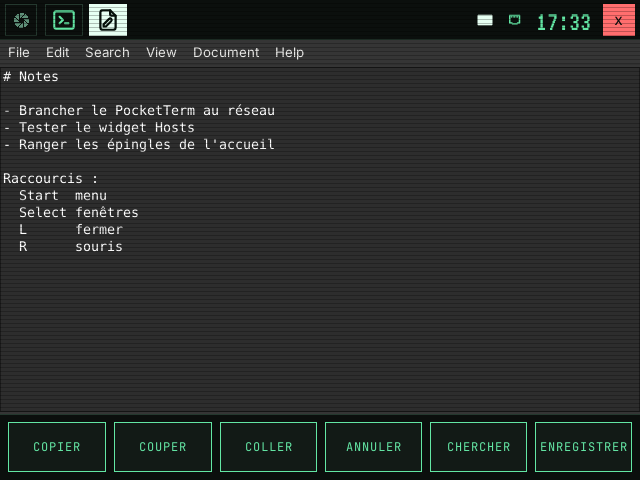
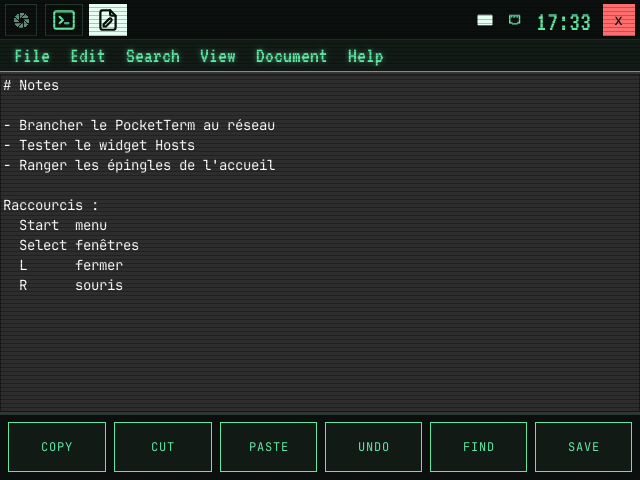
Éditeur : barre de menus en bande de 32 px, texte à 14 px, boutons en anglais
- gtk-3.0/gtk.css : la barre de menus de Mousepad en VT323 avec halo,
  bande surface et filet primary, comme le fil d'Ariane.
- install.sh : police du texte JetBrains Mono 14 px (gsettings), comme Files.
- pt35-actions et barre tmux en anglais, comme l'interface.

Claude-Session: https://claude.ai/code/session_01TamZHjxnFaqmn2ea4JHUm8

diff --git a/home/.config/gtk-3.0/gtk.css b/home/.config/gtk-3.0/gtk.css
@@ -1,0 +1,30 @@
+/* PocketTerm Phosphore (DESIGN.md) pour les apps GTK3. */
+
+/* Mousepad : barre de menus en bande de 32 px, comme le fil d'Ariane (fork u19).
+   Tailles en px : PT35-OS lance l'éditeur avec GDK_DPI_SCALE=0.75, qui ne
+   réduit que les tailles en pt. */
+window.mousepad menubar {
+  background: #121a16;
+  border-bottom: 1px solid #63e6a4;
+  padding: 0 4px;
+}
+window.mousepad menubar > menuitem {
+  min-height: 31px;
+  padding: 0 10px;
+  color: #63e6a4;
+}
+/* Sur le libellé seulement : le menu déroulant hériterait de la police. */
+window.mousepad menubar > menuitem > label {
+  font-family: "VT323";
+  font-size: 22px;
+  text-shadow: 0 0 3px rgba(99, 230, 164, 0.6);
+}
+/* Menu ouvert : la sélection de la charte, fond plein et texte sombre. */
+window.mousepad menubar > menuitem:hover {
+  background: #e6fff2;
+  color: #06110b;
+  box-shadow: none;
+}
+window.mousepad menubar > menuitem:hover > label {
+  text-shadow: none;
+}

diff --git a/docs/briques.md b/docs/briques.md
@@ -56,7 +56,7 @@ Une ligne par brique : ce qu'on prend, pourquoi, ou pourquoi on l'écarte.
 | [tmux](https://github.com/tmux/tmux) (ISC, Debian) pour la barre du bas du Terminal | retenu | barre de statut native, couleurs en config ; donne aussi la molette sur l'historique et la copie OSC 52 vers foot. Lancé par la tuile Terminal et Super+Entrée seulement : `foot ssh …` et les apps en `foot -a` restent sans |
 | [Zellij](https://zellij.dev/) | écarté | barre plus riche mais binaire hors Debian, plus lourd, raccourcis qui prennent beaucoup de touches : YAGNI |
 | barre de prompt ([Starship](https://starship.rs/)) | écarté | habille le prompt, pas le bas de l'écran ; à reconsidérer à part |
-| bandeau d'actions `pt35-actions` (Python, GTK3 + [gtk-layer-shell](https://github.com/wmww/gtk-layer-shell), wtype) | retenu | maquette `05-editeur` : Copier, Couper, Coller, Annuler, Chercher, Enregistrer en bas de l'éditeur. Surface layer-shell sans clavier, montrée quand l'app a le focus (`swaymsg subscribe`), raccourcis Ctrl envoyés par wtype (déjà dépendance de PT35-OS). Une app de plus = une entrée dans `ACTIONS` |
+| bandeau d'actions `pt35-actions` (Python, GTK3 + [gtk-layer-shell](https://github.com/wmww/gtk-layer-shell), wtype) | retenu | maquette `05-editeur` : Copy, Cut, Paste, Undo, Find, Save (en anglais comme l'interface) en bas de l'éditeur. Surface layer-shell sans clavier, montrée quand l'app a le focus (`swaymsg subscribe`), raccourcis Ctrl envoyés par wtype (déjà dépendance de PT35-OS). Une app de plus = une entrée dans `ACTIONS` |
 | barre d'outils native de mousepad | écarté | toujours en haut, en anglais, quinze icônes : ni la maquette ni le pouce |
 | Waybar (modules custom + `on-click`) | écarté | pas de moyen fiable de l'afficher seulement sur l'éditeur (SIGUSR1 bascule à l'aveugle) |
 | barre d'actions par app dans `pt35-bar` (fork) | en réserve | la bonne place à terme, et proposable à upstream ; patch Rust à reporter à chaque version, pour six boutons |
@@ -80,3 +80,6 @@ Une ligne par brique : ce qu'on prend, pourquoi, ou pourquoi on l'écarte.
 | [lisgd](https://git.sr.ht/~mil/lisgd) (sxmo) | en réserve | gestes multi-doigts → commande (ex. 3 doigts = Start), lit evdev sans config sway ; mais l'app sous les doigts reçoit le même geste, donc il agit deux fois. Seulement si un geste système est demandé |
 | défilement tactile dans `pt35-ui` (fork u18) | retenu | rien d'existant pour une surface layer-shell en Rust ; on copie le modèle de foot : rien au toucher, 12 px puis glisser = défiler par lignes, 500 ms = appui long (clic droit), second doigt ignoré. Voir `specs.md`, Tactile |
 | fil d'Ariane en prompt, `❯` et titre en VT323 sur 32 px (fork u19) | retenu | piste C3 parmi un onglet plein et deux autres séparateurs (`>`, chemin bash). À 32 px la liste montre 7 lignes ; 64 px dans la maquette de la charte, 46 chez upstream |
+| barre de menus de Mousepad skinnée par `~/.config/gtk-3.0/gtk.css` (classe `window.mousepad`) | retenu | 32 px, VT323 et filet comme le fil d'Ariane, sans patch. Tailles en px : le `GDK_DPI_SCALE=0.75` d'upstream ne les réduit pas. Menus déroulants laissés en Adwaita |
+| police du texte de Mousepad par gsettings (`font-name`), posée par `install.sh` | retenu | JetBrains Mono 14 px comme Files ; le zoom Ctrl +/- et les Préférences restent maîtres. Une règle `textview` dans `gtk.css` aurait cassé le zoom |
+| `[app.editor] scale = 1.0` | écarté | grossit aussi menus déroulants et dialogues, qui débordent des 480 px |

diff --git a/DESIGN.md b/DESIGN.md
@@ -162,11 +162,12 @@ Angles droits partout (`menu.radius = 0`). Bordures de 1 px pour les panneaux, 2
 - **list-row-selected / tile-selected** : fond blanc léger, texte sombre. Dans une liste, la pilule de sélection s'arrête avant la barre de défilement (u9).
 - **toggle-on / toggle-off** (u9) : bascule de 64 × 26, le mot ON ou OFF en VT323 dans la moitié libre, à côté du curseur. Fond plein `ok` (vert) si ON, `critical` (rouge) si OFF, texte sombre. Le mot porte l'état, la couleur n'est qu'un appui. Aperçu : [`docs/design/reglages-rapides-u9.png`](docs/design/reglages-rapides-u9.png).
 - **button-danger / button-error** : fond plein orange ou rouge, texte sombre, icône obligatoire.
-- **action-bar-button** : gros boutons en bas des écrans d'édition (Copier, Couper, Coller, Annuler, Chercher, Enregistrer). C'est la réponse au « pas de Vim ».
+- **action-bar-button** : gros boutons en bas des écrans d'édition (Copy, Cut, Paste, Undo, Find, Save), en anglais comme le reste de l'interface. C'est la réponse au « pas de Vim ».
 - **barre segmentée** : CPU, RAM, température, signal, volume. Masquée si la valeur n'existe pas.
 - **courbe en aire** : débit réseau, charge, avec dégradé et halo.
 - **app active dans la barre** (u5) : case pleine en `accent`, icône teintée sombre.
 - **fil d'Ariane** (u19, `[menu] title_header`) : bande `surface` de 32 px, filet `primary` de 1 px. Le chemin en JetBrains Mono 16 `muted`, séparé par `❯` comme un prompt (`PT35 ❯ SETTINGS ❯`), puis l'écran en cours en VT323 avec halo. Trop long, il perd d'abord les écrans sous PT35, remplacés par `…`, comme `PROMPT_DIRTRIM` de bash. Chaque écran du chemin se touche pour y revenir. Aperçu : [`docs/design/fil-ariane-u19.png`](docs/design/fil-ariane-u19.png).
+- **barre de menus GTK3** (Mousepad, `home/.config/gtk-3.0/gtk.css`) : bande `surface` de 32 px et filet `primary` de 1 px, comme le fil d'Ariane ; menus en VT323 22 px avec halo, menu ouvert en `selection`, texte sombre. Le texte en JetBrains Mono 14 px, comme le terminal. Aperçu : [`docs/captures/editeur.png`](docs/captures/editeur.png).
 - **hint-bar** : touche carrée pleine aux couleurs des boutons physiques (A primary, B error, X teal, Y danger) et action encadrée, cliquables (`[menu] hint_frames = true`, u6).
 
 ## Do's and Don'ts

diff --git a/README.md b/README.md
@@ -26,8 +26,9 @@ Le désinstaller rend le bureau d'origine.
 - **Musique et Vidéo** sur mpv avec l'interface tactile [uosc](https://github.com/tomasklaen/uosc).
 - **Fichiers** (yazi) aux couleurs du thème, avec des onglets et les serveurs
   de `~/.ssh/config` : copier / coller entre local et SSH, ou entre deux serveurs.
-- **Éditeur** avec un bandeau de gros boutons (Copier, Coller, Enregistrer...)
-  utilisables au doigt.
+- **Éditeur** avec un bandeau de gros boutons (Copy, Paste, Save...)
+  utilisables au doigt, une barre de menus aux couleurs du thème et le texte à
+  la taille du terminal.
 - **Écran de démarrage** Plymouth assorti.
 
 ## Captures
@@ -202,6 +203,7 @@ installé reste celui de `PT35_VERSION`.
 | `home/.config/pt35/wallpaper.svg` | fond d'écran du lanceur |
 | `home/.config/foot/foot.ini` | couleurs et police du terminal |
 | `home/.config/tmux/tmux.conf` | barre du bas du Terminal, souris et copie |
+| `home/.config/gtk-3.0/gtk.css` | barre de menus de l'éditeur (Mousepad) |
 | `home/.config/gtk-4.0/gtk.css` | couleurs des apps GTK4 |
 | `home/.config/mpv/` | mpv et uosc aux couleurs du thème, boutons A, X, Y ; sans fichier, un accueil pour parcourir sa médiathèque ou ouvrir une URL (`scripts/pt35-home.lua`) |
 | `home/.config/yazi/` | yazi (Fichiers) aux couleurs du thème ; A ouvre, B revient, X ouvre Lieux (dossier perso, ou un hôte SSH dans un nouvel onglet), Y liste les onglets (Y encore = nouvel onglet), Ctrl+C / X / V, onglets Ctrl+T / W |

diff --git a/docs/specs.md b/docs/specs.md
@@ -191,6 +191,7 @@ L'ordre suit les dépendances. Chaque tâche indique où elle se fait : « appar
 - [x] Djé : trancher les étapes du menu (1 et 2, voir Tactile)
 - [x] Agent : étapes 1 et 2 du tactile, fork u18 ([fork #18](https://github.com/Kalacione/PocketTerm35-OS/pull/18))
 - [ ] Appareil : après `tools/ship.sh` pour u18, vérifier au doigt : glisser dans All apps et Paramètres fait défiler sans rien ouvrir ; toucher bref ouvre au relâcher ; appui long sur une app ouvre Open / Pin ; balayage sur la bascule ; barre de défilement ; tuiles de l'accueil, widgets et barre du haut au toucher
+- [ ] Appareil : éditeur, barre de menus de 32 px en VT323, texte en JetBrains Mono 14 px, bandeau d'actions et barre tmux en anglais
 
 **Prochains chantiers** (demandés par Djé, pas commencés)
 
